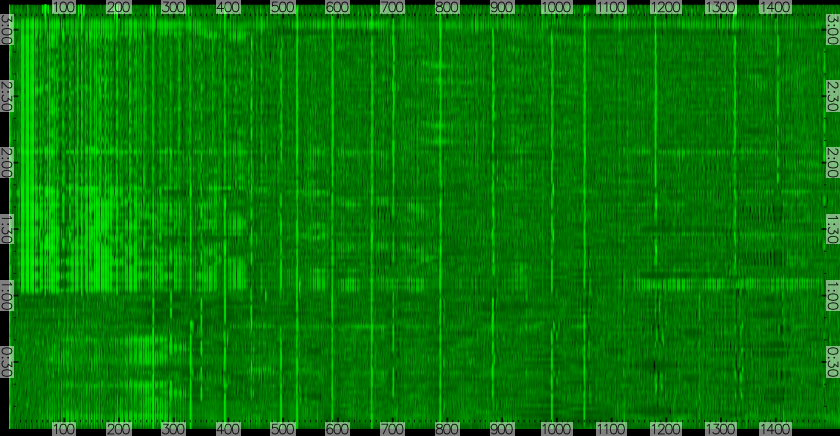
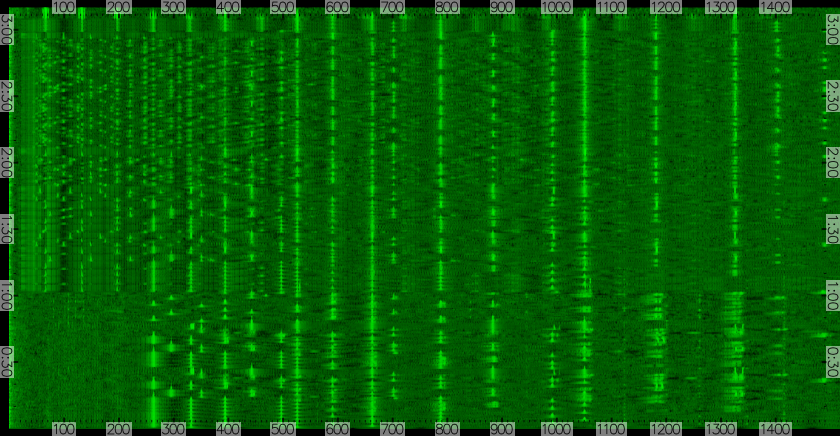
Updated test results for newdag

diff --git a/4-sonicawe-end2end/2-3-lofargram/lofargram.cpp b/4-sonicawe-end2end/2-3-lofargram/lofargram.cpp
@@ -93,7 +93,7 @@ void Lofargram::
      */
     // linear frequency scale (see Tools::RenderController::receiveLinearScale)
     {
-        float fs = view->model->project()->head->head_source()->sample_rate();
+        float fs = view->model->project()->extent ().sample_rate.get ();
 
         Tfr::FreqAxis fa;
         fa.setLinear( fs );
@@ -108,7 +108,7 @@ void Lofargram::
 
     // amplitude (see Tools::RenderController::receiveSetYScale)
     {
-        view->model->renderer->y_scale = 2.0f;
+        view->model->renderer->render_settings.y_scale = 2.0f;
     }
 
     // logarithmic amplitude (see Tools::RenderController::receiveSetGreenColors)
@@ -132,14 +132,11 @@ void Lofargram::
 
     // normalization (see TransformInfoForm)
     {
-        Tfr::Filter* filter = view->model->block_filter ();
-        EXCEPTION_ASSERT( filter ); // There should always be a block filter in RenderModel
+        Heightmap::TfrMappings::StftBlockFilterParams::Ptr stft_params =
+                view->model->project ()->tools ().render_model.get_stft_block_filter_params ();
+        EXCEPTION_ASSERT( stft_params );
 
-        Heightmap::BlockFilter* blockfilter = dynamic_cast<Heightmap::BlockFilter*>( filter );
-        EXCEPTION_ASSERT( blockfilter ); // testing if this indirection works
-
-        Heightmap::StftToBlock* stftblock = dynamic_cast<Heightmap::StftToBlock*>( filter );
-        stftblock->freqNormalization = Tfr::pChunkFilter(
+        write1(stft_params)->freq_normalization = Tfr::pChunkFilter(
                     new Filters::NormalizeSpectra(96));
     }
 
@@ -161,8 +158,8 @@ void Lofargram::
     // 4. Inspect model->_q/p/r and store the values here. Or use
     //    as an inspiration for analytical values.
     {
-        float length = view->model->project()->head->head_source()->length();
-        float fs = view->model->project()->head->head_source()->sample_rate ();
+        float length = view->model->project()->length ();
+        float fs = view->model->project()->extent ().sample_rate.get ();
         // Approximately show the entire signal up to 1500 Hz
         view->model->_qx = length/2;
         view->model->_qz = (maxhz+minhz)/fs;

diff --git a/4-sonicawe-end2end/4-2-deleteselection/deleteselection.cpp b/4-sonicawe-end2end/4-2-deleteselection/deleteselection.cpp
@@ -89,7 +89,7 @@ void DeleteSelection::
 
     Tools::RenderView* view = project()->toolRepo().render_view();
     Tools::RenderModel* model = view->model;
-    float fs = model->renderer->y_scale;
+    float fs = model->renderer->render_settings.y_scale;
     QVERIFY(qFuzzyCompare(fs, 0.00559899537f));
 
     model->renderer->y_scale = 0.00597602082f;

diff --git a/4-sonicawe-end2end/4-1-cropfrequency/cropfrequency.cpp b/4-sonicawe-end2end/4-1-cropfrequency/cropfrequency.cpp
@@ -80,7 +80,7 @@ void CropFrequency::
 
     Tools::RenderView* view = project()->toolRepo().render_view();
     Tools::RenderModel* model = view->model;
-    model->renderer->y_scale = 0.00597602082f;
+    model->renderer->render_settings.y_scale = 0.00597602082f;
 
     SaweTestClass::projectOpened();
 }

diff --git a/4-sonicawe-end2end/4-3-cropselection/cropselection.cpp b/4-sonicawe-end2end/4-3-cropselection/cropselection.cpp
@@ -84,7 +84,7 @@ void CropSelection::
 
     Tools::RenderView* view = project()->toolRepo().render_view();
     Tools::RenderModel* model = view->model;
-    model->renderer->y_scale = 0.00597602082f;
+    model->renderer->render_settings.y_scale = 0.00597602082f;
 
     SaweTestClass::projectOpened();
 }
